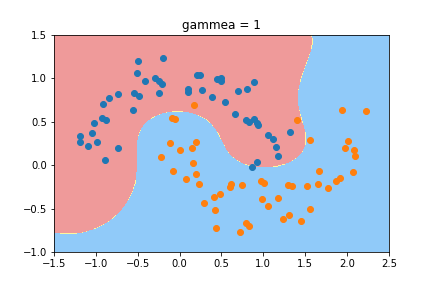
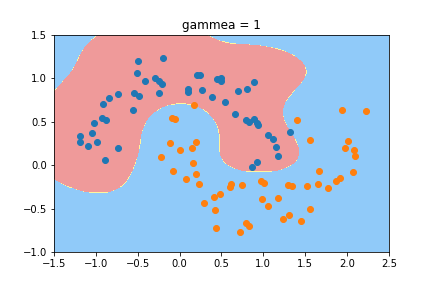
第五次提交

diff --git a/第七章/SVM.md b/第七章/SVM.md
@@ -32,7 +32,7 @@
 >
 >
 >$$
->\max\ \frac{r^*}{||w||
+>\max\ \frac{r^*}{||w||}
 >$$
 
 #### 1.2 线性可分优化
@@ -253,8 +253,8 @@ l1 , l2 = -1, 1
 #获取新的维度数据
 X_new = np.empty((len(x), 2))
 for i,data in enumerate(x):
-    X_new[i,0] = gaussion(data, l1)
-    X_new[i,1] = gaussion(data, l2)  
+    X_new[i,0] = gaussian(data, l1)
+    X_new[i,1] = gaussian(data, l2)  
 
 ＃绘画结果
 plt.scatter(X_new[y==0,0], X_new[y==0,1])
@@ -282,4 +282,105 @@ plt.show()
 >-  不需要每一次都具体计算出原始样本点映射的新的无穷维度的样本点，直接使用映射后的新的样本点的点乘计算公式即可
 >- 减少计算量  
 >- 较少存储空间
+
+##### 3.2.1 高斯核$\gamma$参数的理解
+
+**高斯核：**
+
+![](/home/gavin/Machine/机器学习理论/code /第七章/高斯核函数.png)
+
+**<font color = blue>RBF核参数分析代码</font> **
+
+1. 数据预准备
+
+   ```python
+   #RBF核
+   import numpy as np
+   import matplotlib.pyplot as plt
+   from sklearn import datasets
+   
+   #加载数据
+   X, y = datasets.make_moons(noise=0.15, random_state=666)
+   print(len(X), y)
+   plt.scatter(X[y==0, 0], X[y==0, 1])
+   plt.scatter(X[y==1, 0], X[y==1, 1])
+   plt.show()
+   ```
+
+   ![](/home/gavin/Machine/机器学习理论/code /第七章/原始数据的采集.png)
+
+2. 数据分析
+
+   ```python
+   from sklearn.svm import SVC
+   from sklearn.pipeline import Pipeline
+   from sklearn.preprocessing import StandardScaler
+   
+   
+   def RBFKernelSVC(gamma):
+       return Pipeline([
+           ("std_scaler", StandardScaler()),
+           ("svc", SVC(kernel="rbf", gamma=gamma))
+       ])
+       
+       
+   svc = RBFKernelSVC(gamma=1)    
+   svc.fit(X, y)
+   ```
+
+   **输出结果**
+
+   ```txt
+   Pipeline(memory=None,
+            steps=[('std_scaler',
+                    StandardScaler(copy=True, with_mean=True, with_std=True)),
+   
+   ('svc',
+                    SVC(C=1.0, cache_size=200, class_weight=None, coef0=0.0,
+                        decision_function_shape='ovr', degree=3, gamma=1,
+                        kernel='rbf', max_iter=-1, probability=False,
+                        random_state=None, shrinking=True, tol=0.001,
+                        verbose=False))],
+            verbose=False)
+   ```
+
+   ```python
+   def plot_decision_boundary(model, axis):
+       
+       x0, x1 = np.meshgrid(
+           np.linspace(axis[0], axis[1], int((axis[1]-axis[0])*100)).reshape(-1, 1),
+           np.linspace(axis[2], axis[3], int((axis[3]-axis[2])*100)).reshape(-1, 1),
+       )
+       X_new = np.c_[x0.ravel(), x1.ravel()]
+   
+       y_predict = model.predict(X_new)
+       zz = y_predict.reshape(x0.shape)
+   
+       from matplotlib.colors import ListedColormap
+       custom_cmap = ListedColormap(['#EF9A9A','#FFF59D','#90CAF9'])
+       
+       plt.contourf(x0, x1, zz, linewidth=5, cmap=custom_cmap)
+       
+       
+   plot_decision_boundary(svc, axis=[-1.5, 2.5, -1.0, 1.5])
+   plt.scatter(X[y==0,0], X[y==0,1])
+   plt.scatter(X[y==1,0], X[y==1,1])
+   plt.title("gammea = 1")
+   plt.savefig("gammea(1)")
+   plt.show()
+   ```
+
+   | ![gammea(01)](/home/gavin/Machine/机器学习理论/code /第七章/gammea(01).png) | ![gammea(05)](/home/gavin/Machine/机器学习理论/code /第七章/gammea(05).png) |
+   | :----------------------------------------------------------: | :----------------------------------------------------------: |
+   |                          过度欠拟合                          |                            欠拟合                            |
+   | ![gammea(3)](/home/gavin/Machine/机器学习理论/code /第七章/gammea(3).png) | ![gammea(100)](/home/gavin/Machine/机器学习理论/code /第七章/gammea(100).png) |
+   |                          just right                          |                            过拟合                            |
+
+   **结论：**在高斯核中$\gamma$参数表示着数据的拟合情况，参数越大表示数据拟合的情况越好，但参数设置过大时会造成过拟合现象的产生。
+
+### 4. 参考
+
+[支持向量机通俗导论](https://blog.csdn.net/v_JULY_v/article/details/7624837)
+
+[机器学习：svm](https://www.cnblogs.com/volcao/p/9465214.html)
 
